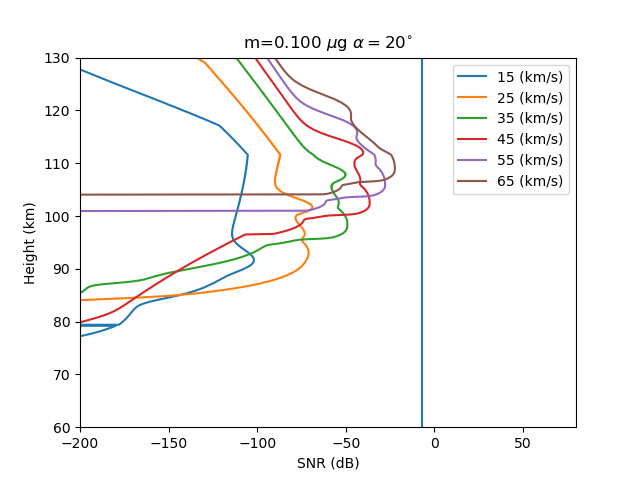
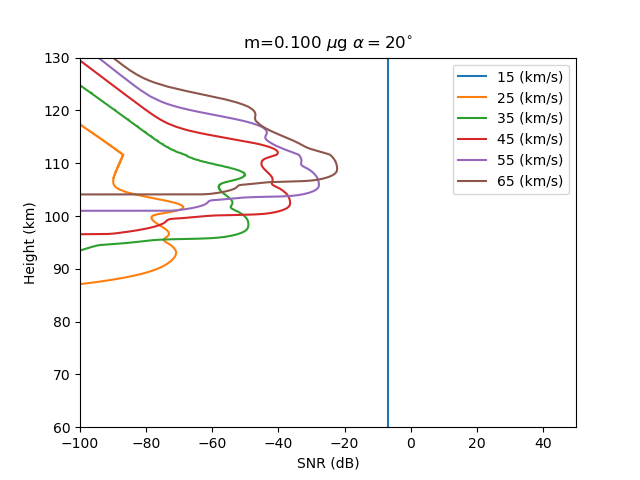
rsnj

diff --git a/snrplot.py b/snrplot.py
@@ -50,7 +50,6 @@ def plot_sweep(mass=".01",angle="40"):
     fl.sort()
     if len(fl) < 2:
         print("only found %d runs. not plotting"%(len(fl)))
-        print("runs/run_ %s_* %s.txt"%(mass,angle))
         return
     vels=n.array([15,25,35,45,55,65],dtype=n.int64)
     n_vels=len(vels)
@@ -72,7 +71,7 @@ def plot_sweep(mass=".01",angle="40"):
     plt.legend()
     plt.axvline(-7)
     plt.title(r"m=%1.3f $\mu$g $\alpha=%d^{\circ}$"%(float(mass),int(angle) ))
-    plt.xlim([-200,80])
+    plt.xlim([-100,50])
     plt.ylim([60,130])    
     plt.xlabel("SNR (dB)")
     plt.ylabel("Height (km)")
